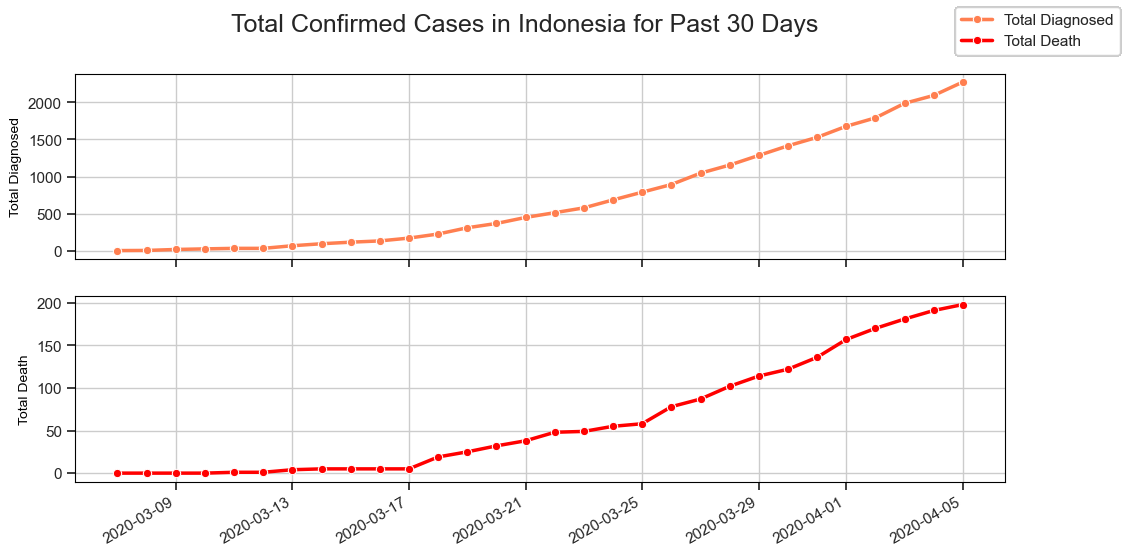
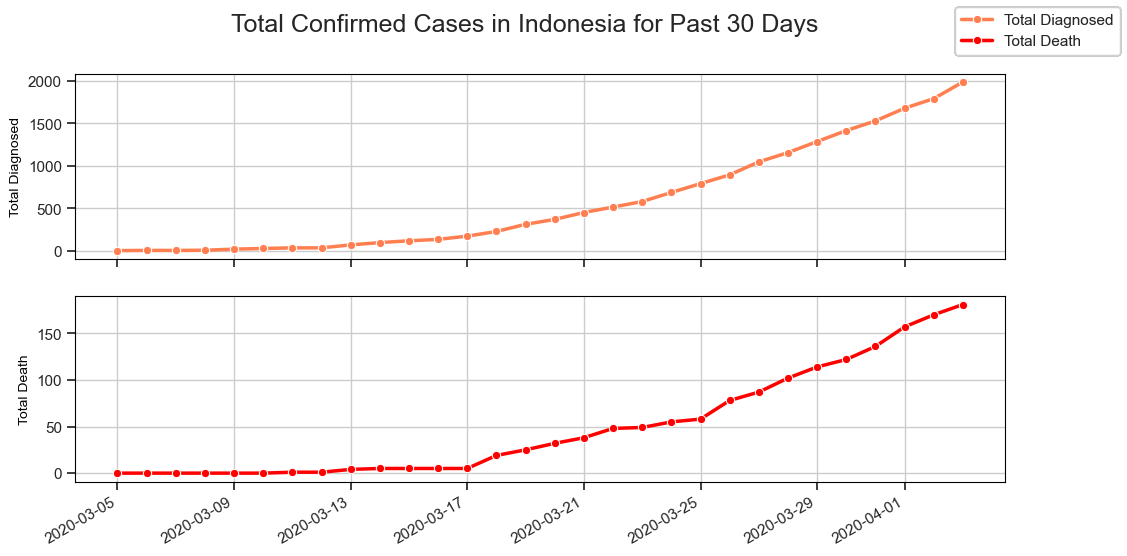
Version 3.4 - selected countries. Graph plotting to be with intent

diff --git a/Generate_graph.py b/Generate_graph.py
@@ -1,20 +1,12 @@
-# import sys
-# import django
-# import os
-# os.environ.setdefault('DJANGO_SETTING_MODULE', 'ChatBot_Main.settings')
-# # setting can be found in wsgi.py folder in pycache
-# os.environ['DJANGO_SETTINGS_MODULE'] = 'ChatBot_Main.settings'
-# #os.environ['DJANGO_SETTINGS_MODULE'] = 'mysite.settings'
-# django.setup()
-
 import pandas as pd
 from datetime import datetime
 import numpy as np
 import matplotlib.pyplot as plt
-import seaborn as sns
+import matplotlib.ticker as ticker
 import matplotlib.dates as mdates
+import seaborn as sns
 
-def plot_it():
+def plot_it(countries = ['China','France','Germany', 'Iran', 'Indonesia', 'Italy','Malaysia','Philippines','Singapore','Spain','United Kingdom']):
     #plot individual country charts
     inf_link = "https://raw.githubusercontent.com/CSSEGISandData/COVID-19/master/csse_covid_19_data/csse_covid_19_time_series/time_series_covid19_confirmed_global.csv"
     inf_link_us = "https://raw.githubusercontent.com/CSSEGISandData/COVID-19/master/csse_covid_19_data/csse_covid_19_time_series/time_series_covid19_confirmed_US.csv"
@@ -25,7 +17,6 @@ def plot_it():
     inf_us = pd.concat([inf_us.iloc[:,6:8], inf_us.iloc[:,-30:]],axis=1)
     inf_global = pd.concat([inf_global.iloc[:,0:2],inf_global.iloc[:,-30:]],axis=1)
     inf_us_grp = inf_us.groupby(by='Country_Region').sum().T
-    inf_pr_grp = inf_us[inf_us['Province_State'] == 'Puerto Rico'].groupby(by='Province_State').sum().T
     inf_global_grp = inf_global.groupby(by='Country/Region').sum().T
 
     dead_link = "https://raw.githubusercontent.com/CSSEGISandData/COVID-19/master/csse_covid_19_data/csse_covid_19_time_series/time_series_covid19_deaths_global.csv"
@@ -37,12 +28,11 @@ def plot_it():
     dead_us = pd.concat([dead_us.iloc[:,6:8], dead_us.iloc[:,-30:]],axis=1)
     dead_global = pd.concat([dead_global.iloc[:,0:2],dead_global.iloc[:,-30:]],axis=1)
     dead_us_grp = dead_us.groupby(by='Country_Region').sum().T
-    dead_pr_grp = dead_us[dead_us['Province_State'] == 'Puerto Rico'].groupby(by='Province_State').sum().T
     dead_global_grp = dead_global.groupby(by='Country/Region').sum().T
 
     sns.set(style="whitegrid")
     fig, axs = plt.subplots(nrows=2, ncols=1, figsize=(12,6), sharex=True)
-    for i in inf_global_grp.columns[0:10]:
+    for i in countries:
         df = inf_global_grp[i]
         df.index = pd.to_datetime(df.index)
         df2 = dead_global_grp[i]
@@ -52,34 +42,41 @@ def plot_it():
         ax2 = sns.lineplot(data=df2, palette="tab10", linewidth=2.5, marker='o', color="red", ax = axs[1], legend='full')
         ax.set_ylabel('Total Diagnosed')
         ax2.set_ylabel('Total Death')
-        ax.set_xlabel('Date (past 30 days)')
         ax.figure.legend(['Total Diagnosed', 'Total Death'])
-        fig.autofmt_xdate()
-        plt.savefig(f'static/plots/{i.lower().replace("*","")}.png',bbox_inches = "tight")
-        plt.savefig(f'staticfiles/plots/{i.lower().replace("*","")}.png',bbox_inches = "tight")
+        ax.set_xlim(df.index[0],df.index[-1])
+        xfmt = mdates.DateFormatter('%d-%m')
+        ax.xaxis.set_major_formatter(xfmt)
+        ax.xaxis.set_major_locator(ticker.MultipleLocator(1))
+        for tick in ax2.get_xticklabels():
+            tick.set_rotation(45)
+            tick.set_horizontalalignment("center")
+        if i == 'United Kingdom': i = 'uk'
+        plt.savefig(f'static/plots/{i.lower()}.png',bbox_inches = "tight")
         ax.cla()
         ax2.cla()
-        print(f"graph {i} plotted")
 
     # US ONLY
-
-    for i in inf_us_grp.columns:
-        sns.set(style="whitegrid")
-        df = inf_us_grp[i]
-        df.index = pd.to_datetime(df.index)
-        df2 = dead_us_grp[i]
-        df2.index = pd.to_datetime(df.index)
-        fig, axs = plt.subplots(nrows=2, ncols=1, figsize=(12,6), sharex=True)
-        fig.suptitle(f'Total Confirmed Cases in {i} for Past 30 Days', fontsize= 18)
-        ax = sns.lineplot(data=df, palette="tab10", linewidth=2.5, marker='o', color="coral", ax = axs[0], legend='full')
-        ax2 = sns.lineplot(data=df2, palette="tab10", linewidth=2.5, marker='o', color="red", ax = axs[1], legend='full')
-        ax.set_ylabel('Total Diagnosed')
-        ax2.set_ylabel('Total Death')
-        ax.set_xlabel('Date (past 30 days)')
-        ax.figure.legend(['Total Diagnosed', 'Total Death'])
-        fig.autofmt_xdate()
-        plt.savefig('static/plots/usa.png',bbox_inches = "tight")
+    df = inf_us_grp['US']
+    df.index = pd.to_datetime(df.index)
+    df2 = dead_us_grp['US']
+    df2.index = pd.to_datetime(df.index)
+    fig.suptitle(f'Total Confirmed Cases in {i} for Past 30 Days', fontsize= 18)
+    ax = sns.lineplot(data=df, palette="tab10", linewidth=2.5, marker='o', color="coral", ax = axs[0], legend='full')
+    ax2 = sns.lineplot(data=df2, palette="tab10", linewidth=2.5, marker='o', color="red", ax = axs[1], legend='full')
+    ax.set_ylabel('Total Diagnosed')
+    ax2.set_ylabel('Total Death')
+    ax.figure.legend(['Total Diagnosed', 'Total Death'])
+    ax.set_xlim(df.index[0],df.index[-1])
+    xfmt = mdates.DateFormatter('%d-%m')
+    ax.xaxis.set_major_formatter(xfmt)
+    ax.xaxis.set_major_locator(ticker.MultipleLocator(1))
+    for tick in ax2.get_xticklabels():
+        tick.set_rotation(45)
+        tick.set_horizontalalignment("center")
+    plt.savefig('static/plots/usa.png',bbox_inches = "tight")
         
-    comment = 'Graphs Job Completed'
-    return comment
+    return print('Daily Graph plots done')
 
+
+if __name__ == "__main__":
+    plot_it()

diff --git a/WebScrape.py b/WebScrape.py
@@ -73,70 +73,6 @@ class statusScrapper():
         ax2.set_yticks(np.linspace(ax2.get_yticks()[0], round(ax2.get_yticks()[-1],-3), 6))
         plt.savefig('static/plots/worldwide.png',bbox_inches = "tight")
 
-        #plot individual country charts
-        inf_link = "https://raw.githubusercontent.com/CSSEGISandData/COVID-19/master/csse_covid_19_data/csse_covid_19_time_series/time_series_covid19_confirmed_global.csv"
-        inf_link_us = "https://raw.githubusercontent.com/CSSEGISandData/COVID-19/master/csse_covid_19_data/csse_covid_19_time_series/time_series_covid19_confirmed_US.csv"
-
-        inf_global = pd.read_csv(inf_link)
-        inf_us = pd.read_csv(inf_link_us)
-
-        inf_us = pd.concat([inf_us.iloc[:,6:8], inf_us.iloc[:,-30:]],axis=1)
-        inf_global = pd.concat([inf_global.iloc[:,0:2],inf_global.iloc[:,-30:]],axis=1)
-        inf_us_grp = inf_us.groupby(by='Country_Region').sum().T
-        inf_pr_grp = inf_us[inf_us['Province_State'] == 'Puerto Rico'].groupby(by='Province_State').sum().T
-        inf_global_grp = inf_global.groupby(by='Country/Region').sum().T
-
-        dead_link = "https://raw.githubusercontent.com/CSSEGISandData/COVID-19/master/csse_covid_19_data/csse_covid_19_time_series/time_series_covid19_deaths_global.csv"
-        dead_link_us = "https://raw.githubusercontent.com/CSSEGISandData/COVID-19/master/csse_covid_19_data/csse_covid_19_time_series/time_series_covid19_deaths_US.csv"
-
-        dead_global = pd.read_csv(dead_link)
-        dead_us = pd.read_csv(dead_link_us)
-
-        dead_us = pd.concat([dead_us.iloc[:,6:8], dead_us.iloc[:,-30:]],axis=1)
-        dead_global = pd.concat([dead_global.iloc[:,0:2],dead_global.iloc[:,-30:]],axis=1)
-        dead_us_grp = dead_us.groupby(by='Country_Region').sum().T
-        dead_pr_grp = dead_us[dead_us['Province_State'] == 'Puerto Rico'].groupby(by='Province_State').sum().T
-        dead_global_grp = dead_global.groupby(by='Country/Region').sum().T
-
-        # fig, axs = plt.subplots(nrows=2, ncols=1, figsize=(12,6), sharex=True)
-        # for i in inf_global_grp.columns[0:2]:
-        #     sns.set(style="whitegrid")
-        #     df = inf_global_grp[i]
-        #     df.index = pd.to_datetime(df.index)
-        #     df2 = dead_global_grp[i]
-        #     df2.index = pd.to_datetime(df.index)
-        #     fig.suptitle(f'Total Confirmed Cases in {i} for Past 30 Days', fontsize= 18)
-        #     ax = sns.lineplot(data=df, palette="tab10", linewidth=2.5, marker='o', color="coral", ax = axs[0], legend='full')
-        #     ax2 = sns.lineplot(data=df2, palette="tab10", linewidth=2.5, marker='o', color="red", ax = axs[1], legend='full')
-        #     ax.set_ylabel('Total Diagnosed')
-        #     ax2.set_ylabel('Total Death')
-        #     ax.set_xlabel('Date (past 30 days)')
-        #     ax.figure.legend(['Total Diagnosed', 'Total Death'])
-        #     fig.autofmt_xdate()
-        #     plt.savefig(f'static/plots/{i.lower().replace("*","")}.png',bbox_inches = "tight")
-        #     ax.cla()
-        #     ax2.cla()
-        #     print(f"graph {i} plotted")
-
-        # # US ONLY
-        
-        for i in inf_us_grp.columns:
-            df = inf_us_grp[i]
-            df.index = pd.to_datetime(df.index)
-            df2 = dead_us_grp[i]
-            df2.index = pd.to_datetime(df.index)
-            fig, axs = plt.subplots(nrows=2, ncols=1, figsize=(12,6), sharex=True)
-            fig.suptitle(f'Total Confirmed Cases in {i} for Past 30 Days', fontsize= 18)
-            ax = sns.lineplot(data=df, palette="tab10", linewidth=2.5, marker='o', color="coral", ax = axs[0], legend='full')
-            ax2 = sns.lineplot(data=df2, palette="tab10", linewidth=2.5, marker='o', color="red", ax = axs[1], legend='full')
-            ax.set_ylabel('Total Diagnosed')
-            ax2.set_ylabel('Total Death')
-            ax.set_xlabel('Date (past 30 days)')
-            ax.figure.legend(['Total Diagnosed', 'Total Death'])
-            fig.autofmt_xdate()
-            plt.savefig(f'static/plots/usa.png',bbox_inches = "tight")
-            
-
         print('Graphs Job Completed')
 
         globalLastUpdate.objects.all().delete()

diff --git a/chatbot_app/views.py b/chatbot_app/views.py
@@ -15,8 +15,6 @@ from math import radians, sin, cos, acos
 import os
 from df_response_lib import *
 import random
-from rq import Queue
-from worker import conn
 from Generate_graph import plot_it
 key_ = os.environ['key_']
 gmaps = googlemaps.Client(key = key_)
@@ -185,8 +183,6 @@ def webhook(request):
             ns = newsScrapper()
             ns.start()
             plot_it()
-            q = Queue(connection = conn, default_timeout=5000)
-            comment = q.enqueue(plot_it)
             text1 = "Sync/update completed."
 
         except:
@@ -210,3 +206,9 @@ db.connections.close_all()
 
 
 
+# If want to run something in worker queue:
+# from rq import Queue
+# from worker import conn
+# from Generate_graph import plot_it
+#     q = Queue(connection = conn, default_timeout=5000)
+#     comment = q.enqueue(plot_it)
